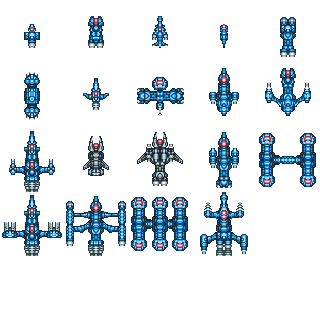
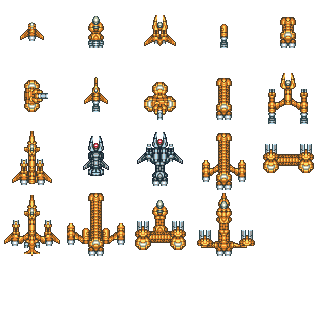
#12 Old mechion ships are now greyan ships.
New mechion ships added too.

diff --git a/src/main/java/org/openRealmOfStars/player/ship/ShipImages.java b/src/main/java/org/openRealmOfStars/player/ship/ShipImages.java
@@ -68,7 +68,7 @@ public final class ShipImages {
     centaurs = new ShipImage("centaurships.png");
     // FIXME: Need to create ships for other races too
     sporks = new ShipImage("humanships.png");
-    greyans = new ShipImage("humanships.png");
+    greyans = new ShipImage("greyanships.png");
   }
 
   /**
